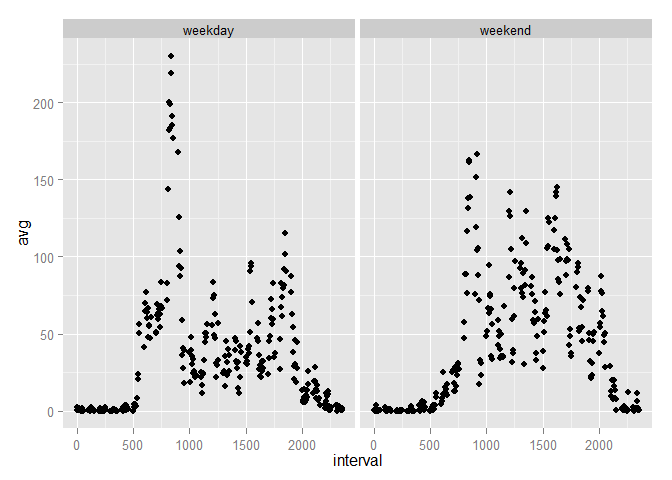
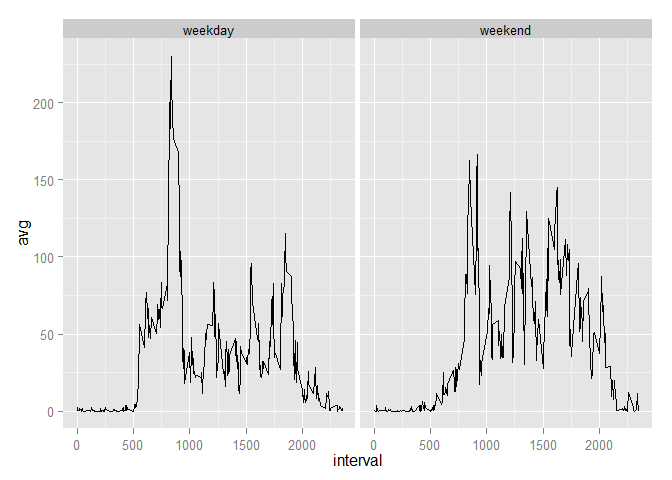
Update final question to use line graph

diff --git a/PA1_template.html b/PA1_template.html
@@ -176,9 +176,9 @@ newAverageByInterval &lt;- newActivity %&gt;%
 <li>Weekends are a little more dispersed during the day</li>
 </ul>
 <pre class="r"><code>ggplot(newAverageByInterval) + 
-  geom_point(aes(x=interval,y=avg)) + 
+  geom_line(aes(x=interval,y=avg)) + 
   facet_wrap(~dayType)</code></pre>
[2 lines of base64/hex data omitted]
 </div>
 </div>
 

diff --git a/PA1_template.md b/PA1_template.md
@@ -217,7 +217,7 @@ Is the average by interval different for weekdays and weekend?  In general yes:
 
 ```r
 ggplot(newAverageByInterval) + 
-  geom_point(aes(x=interval,y=avg)) + 
+  geom_line(aes(x=interval,y=avg)) + 
   facet_wrap(~dayType)
 ```
 
